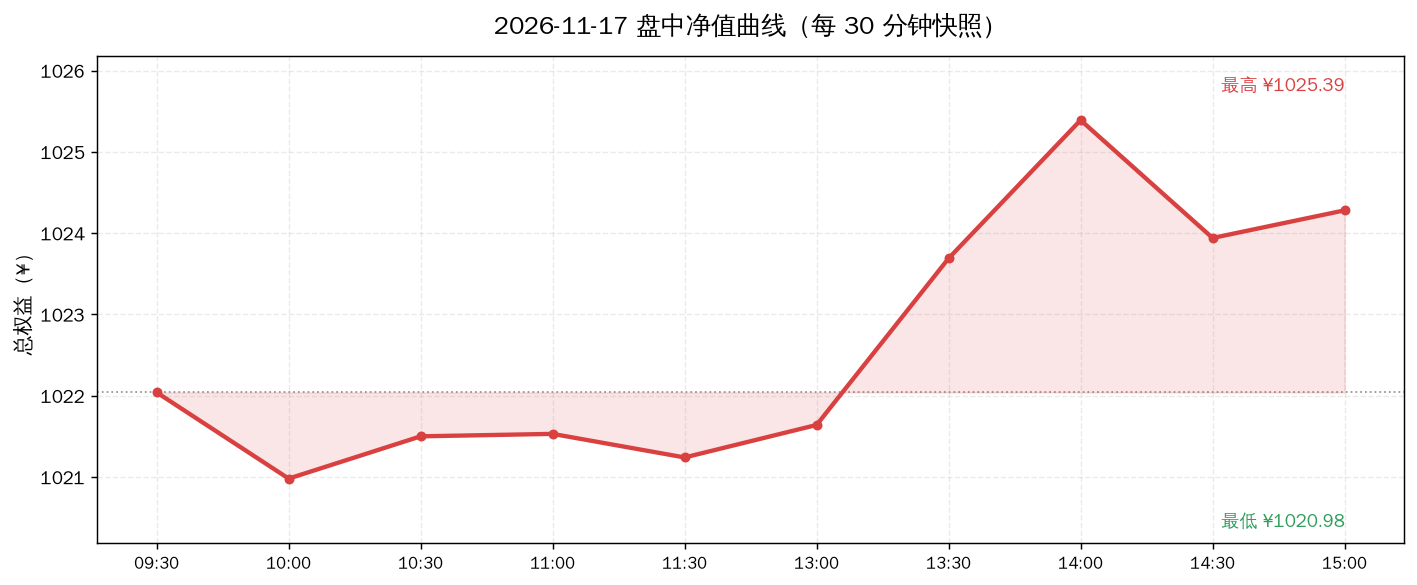
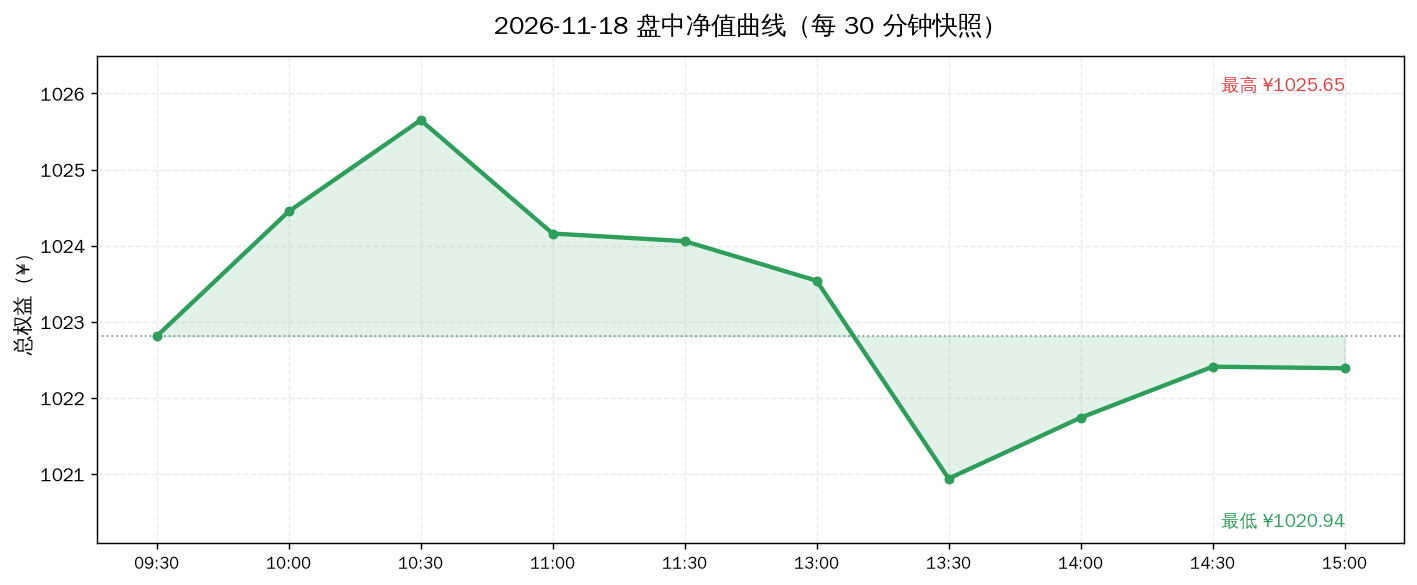
sim: dashboard update 2026-11-18 (equity ¥1022.39, +2.239%)

diff --git a/sim/DASHBOARD.md b/sim/DASHBOARD.md
@@ -1,8 +1,8 @@
 # 📊 模拟盘动态看板
 
-> **自动生成** · 最后更新 **2026-11-17 16:30** · 数据源：腾讯财经公开接口（实时行情）
+> **自动生成** · 最后更新 **2026-11-18 16:30** · 数据源：腾讯财经公开接口（实时行情）
 >
-> 本金 **¥1000.00** · 开仓 **2026-10-28** · 当前总权益 **¥1024.29** · 累计 **+2.429%**
+> 本金 **¥1000.00** · 开仓 **2026-10-28** · 当前总权益 **¥1022.39** · 累计 **+2.239%**
 >
 > ⚠ **纯模拟盘学习实验，不构成投资建议。**
 >
@@ -12,9 +12,9 @@
 
 ## 🎯 30 秒版本
 
-1. 从 2026-10-28 开仓到今天，账户从 ¥1000 变成 **¥1024.29**，赚了 **¥24.29（+2.429%）**。
-2. 今天单日 **+0.44%**，上涨 **¥4.51**。
-3. 同期大盘：**沪深300 -2.63%** 最强，**创业板指 -13.00%** 最弱 —— 本组合跑赢同期最强基准 +5.06 个百分点。
+1. 从 2026-10-28 开仓到今天，账户从 ¥1000 变成 **¥1022.39**，赚了 **¥22.39（+2.239%）**。
+2. 今天单日 **-0.19%**，下跌 **¥1.90**。
+3. 同期大盘：**沪深300 -2.45%** 最强，**创业板指 -12.26%** 最弱 —— 本组合跑赢同期最强基准 +4.69 个百分点。
 
 ## 📈 盈亏曲线
 
@@ -34,7 +34,7 @@
 
 ![盘中曲线](assets/intraday.png)
 
-**怎么读**：2026-11-17 当天每 30 分钟记录一次的账户总值。灰色虚线是当天开盘起点，曲线在虚线上方就是当天浮盈。A 股中午 11:30–13:00 休市，所以那段是平的。
+**怎么读**：2026-11-18 当天每 30 分钟记录一次的账户总值。灰色虚线是当天开盘起点，曲线在虚线上方就是当天浮盈。A 股中午 11:30–13:00 休市，所以那段是平的。
 
 ### 💵 每日盈亏明细图
 
@@ -50,20 +50,20 @@
 
 | 指标 | 数值 | 人话解读 |
 |---|---|---|
-| 总权益 | **¥1024.29** | 现在全部卖掉能拿回多少钱（持仓市值 + 现金） |
-| 持仓市值 | ¥750.37（73.3%） | 买成 ETF 的部分 |
-| 现金 | ¥273.92（26.7%） | 留着没买的钱，按货基利率计息 |
-| 累计盈亏 | **¥+24.29（+2.429%）** | 相对 ¥1000 本金 |
-| 今日盈亏 | **+0.44%** | 今天一天的变化 |
+| 总权益 | **¥1022.39** | 现在全部卖掉能拿回多少钱（持仓市值 + 现金） |
+| 持仓市值 | ¥748.47（73.2%） | 买成 ETF 的部分 |
+| 现金 | ¥273.92（26.8%） | 留着没买的钱，按货基利率计息 |
+| 累计盈亏 | **¥+22.39（+2.239%）** | 相对 ¥1000 本金 |
+| 今日盈亏 | **-0.19%** | 今天一天的变化 |
 | 历史最高 | ¥1024.29 | 账户到过的最高点 |
-| 当前回撤 | +0.000% | 离最高点还差多少（负数=没回到最高点） |
+| 当前回撤 | -0.185% | 离最高点还差多少（负数=没回到最高点） |
 
 ### 持仓明细
 
 | 标的 | 代码 | 持股 | 成本价 | 现价 | 今日 | 市值 | 浮动盈亏 | 人话解读 |
 |---|---|---|---|---|---|---|---|---|
-| 红利低波100ETF景顺 | 515100 | 450 | ¥1.431 | ¥1.492 | 🔺+0.61% | ¥671.40 | **+27.45（+4.26%）** | 赚钱了 |
-| 黄金ETF华安 | 518880 | 10 | ¥8.226 | ¥7.897 | 🔺+0.57% | ¥78.97 | **-3.29（-4.00%）** | 还亏着 |
+| 红利低波100ETF景顺 | 515100 | 450 | ¥1.431 | ¥1.492 | ➖+0.00% | ¥671.40 | **+27.45（+4.26%）** | 赚钱了 |
+| 黄金ETF华安 | 518880 | 10 | ¥8.226 | ¥7.707 | 🔻-2.41% | ¥77.07 | **-5.19（-6.31%）** | 还亏着 |
 | 现金 | — | — | — | — | — | ¥273.92 | — | 货基计息，年化 0.84% |
 
 ---
@@ -110,33 +110,41 @@
 
 | 资产 | 目标占比 | 实际占比 | 偏离 | 判定 |
 |---|---|---|---|---|
-| 红利低波100ETF景顺 | 65% | 65.5% | +0.5pp | 🟢 正常，不动 |
-| 黄金ETF华安 | 8% | 7.7% | -0.3pp | 🟢 正常，不动 |
-| 现金（货基） | 27% | 26.7% | -0.3pp | 🟢 正常，不动 |
+| 红利低波100ETF景顺 | 65% | 65.7% | +0.7pp | 🟢 正常，不动 |
+| 黄金ETF华安 | 8% | 7.5% | -0.5pp | 🟢 正常，不动 |
+| 现金（货基） | 27% | 26.8% | -0.2pp | 🟢 正常，不动 |
 
 #### ② 补仓条件检查（规则：跌到成本价 -8% 触发补仓，每只最多 2 次）
 
 | 标的 | 成本价 | 现价 | 距成本 | 已补仓 | 判定 |
 |---|---|---|---|---|---|
 | 红利低波100ETF景顺 | ¥1.431 | ¥1.492 | +4.26% | 0/2 | 🟢 未触发（还差 12.3pp 才到 -8%） |
-| 黄金ETF华安 | ¥8.226 | ¥7.897 | -4.00% | 0/2 | 🟢 未触发（还差 4.0pp 才到 -8%） |
+| 黄金ETF华安 | ¥8.226 | ¥7.707 | -6.31% | 0/2 | 🟢 未触发（还差 1.7pp 才到 -8%） |
 
 #### ③ 回撤检查（规则：账户从最高点回撤 -5% 只记录、不割肉）
 
 | 指标 | 数值 |
 |---|---|
 | 历史最高净值 | ¥1024.29（2026-11-17） |
-| 当前净值 | ¥1024.29（2026-11-17） |
-| 回撤幅度 | **+0.000%** |
+| 当前净值 | ¥1022.39（2026-11-18） |
+| 回撤幅度 | **-0.185%** |
 | 触发阈值 | -5% |
 
-> 🟢 **未触发**：距阈值还有 5.00pp 缓冲。即使触发，纪律也是记录而非卖出。
+> 🟢 **未触发**：距阈值还有 4.81pp 缓冲。即使触发，纪律也是记录而非卖出。
 
 #### ④ 今日结论
 
 > ⏸ **账户已冻结，不执行任何交易。** 以上检查仅作记录用途——共扫描 6 项纪律，触发 **0** 项。冻结状态下即使触发也不动手（用户决定不投 A 股）。
 
 ### 四、每日决策记录（当时怎么判断的）
+
+#### 📅 2026-11-18 · 权益 ¥1022.39（累计 +2.239%）
+
+- 总权益 **¥1022.39**（当日 -0.19% / 累计 +2.239%）
+- 红利低波100ETF景顺 1.492 (+0.00%)
+- 黄金ETF华安 7.707 (-2.41%)
+- 现金 ¥273.92
+- 📝 自动收盘估值（看板 cron）
 
 #### 📅 2026-11-17 · 权益 ¥1024.29（累计 +2.429%）
 
@@ -265,9 +273,9 @@
 
 | 指数 | 同期涨跌 | 本组合超额 | 人话解读 |
 |---|---|---|---|
-| 沪深300 | -2.63% | **+5.06pp** | 跑赢 5.06 个百分点 |
-| 创业板指 | -13.00% | **+15.43pp** | 跑赢 15.43 个百分点 |
-| 上证指数 | -2.63% | **+5.06pp** | 跑赢 5.06 个百分点 |
+| 沪深300 | -2.45% | **+4.69pp** | 跑赢 4.69 个百分点 |
+| 创业板指 | -12.26% | **+14.50pp** | 跑赢 14.50 个百分点 |
+| 上证指数 | -2.54% | **+4.78pp** | 跑赢 4.78 个百分点 |
 
 > 注：`pp` = percentage point（百分点），是两个百分比相减的单位。「+2.5pp」意思是「比它高 2.5 个百分点」，不是「高 2.5%」。
 
@@ -290,6 +298,7 @@
 | 2026-11-13 | ¥1009.98 | ¥736.09 | ¥273.89 | +0.998% |
 | 2026-11-16 | ¥1019.78 | ¥745.87 | ¥273.91 | +1.978% |
 | 2026-11-17 | ¥1024.29 | ¥750.37 | ¥273.92 | +2.429% |
+| 2026-11-18 | ¥1022.39 | ¥748.47 | ¥273.92 | +2.239% |
 
 ---
 
@@ -302,4 +311,4 @@
 
 ---
 
-_本页由 `dashboard.py` 自动生成于 2026-11-17 16:30:52，每个交易日收盘后刷新。_
+_本页由 `dashboard.py` 自动生成于 2026-11-18 16:30:42，每个交易日收盘后刷新。_
